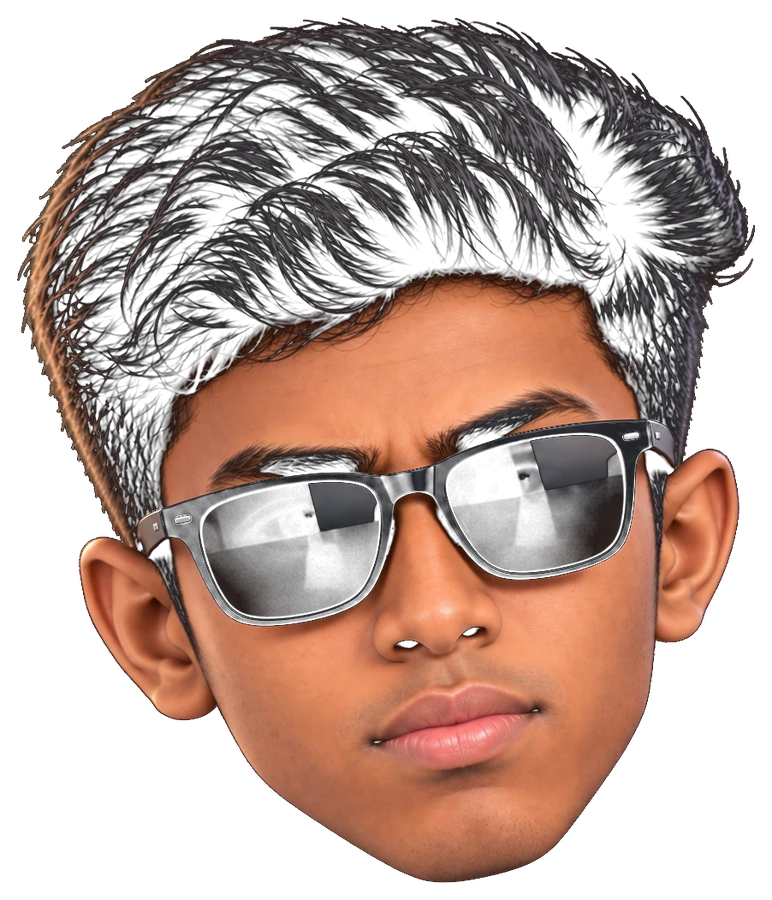
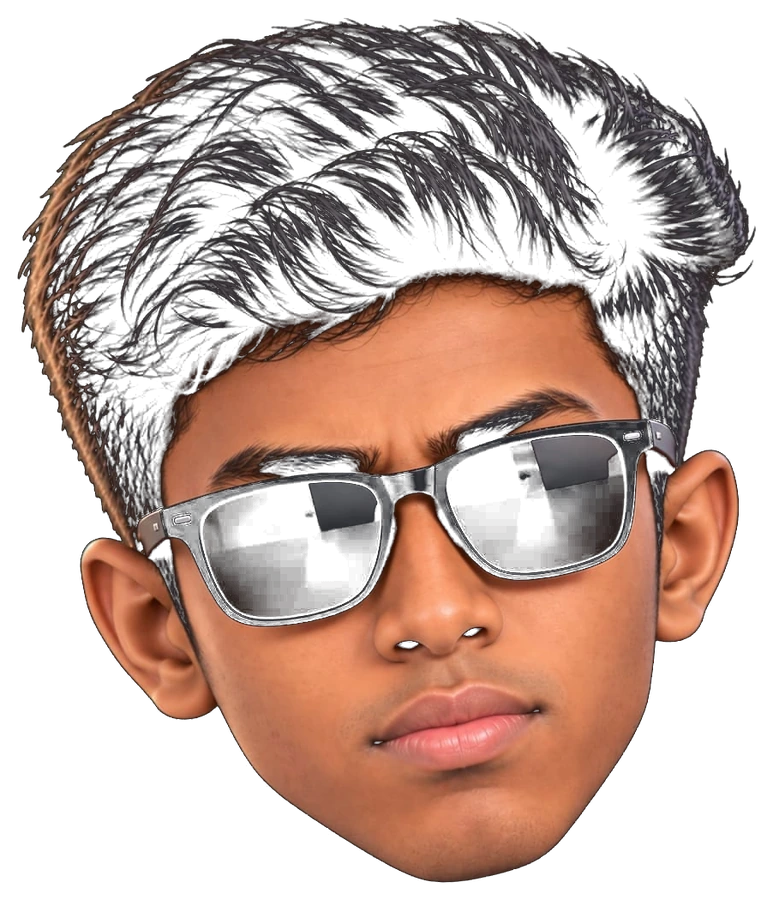
Add files via upload

diff --git a/index.html b/index.html
@@ -101,26 +101,27 @@
     <section class="min-h-svh flex flex-col items-center justify-center text-center px-4 relative pt-20">
       <div aria-hidden="true" class="absolute top-1/3 left-1/2 -translate-x-1/2 -translate-y-1/2 w-96 h-96 bg-brand-red/10 rounded-full blur-3xl pointer-events-none"></div>
 
-      <!-- Memoji Avatar: cut-out 3D portrait, floats gently and tilts toward the pointer -->
-      <div id="memoji-wrap" class="relative w-56 h-56 md:w-72 md:h-72 mx-auto z-10 mb-2" style="perspective: 900px;">
+      <!-- Layered headline + memoji: the bold "CREATIVELY" line sits behind the portrait -->
+      <h1 class="text-6xl sm:text-7xl md:text-8xl lg:text-9xl font-black uppercase tracking-tight z-0 leading-[0.82] select-none">
+        THINK <br />
+        <span class="text-brand-red">CREATIVELY</span>
+      </h1>
+
+      <!-- Memoji Avatar: cut-out 3D portrait, pulled up over the headline, floats gently and tilts toward the pointer -->
+      <div id="memoji-wrap" class="relative -mt-14 sm:-mt-20 md:-mt-28 lg:-mt-32 w-48 h-48 sm:w-60 sm:h-60 md:w-72 md:h-72 lg:w-80 lg:h-80 mx-auto z-10" style="perspective: 900px;">
         <div aria-hidden="true" class="absolute inset-0 scale-90 rounded-full bg-brand-red/25 blur-3xl"></div>
         <img
           id="memoji"
           src="memoji.webp"
           alt="3D illustrated portrait of Ketharnath wearing sunglasses"
-          width="772" height="900"
+          width="773" height="900"
           class="relative w-full h-full object-contain object-bottom select-none motion-safe:animate-float drop-shadow-[0_25px_45px_rgba(255,59,48,0.35)]"
           draggable="false"
           fetchpriority="high"
         />
       </div>
 
-      <h1 class="text-5xl md:text-7xl lg:text-8xl font-black uppercase tracking-tight z-10 leading-none mb-3">
-        THINK <br />
-        <span class="text-brand-red">CREATIVELY</span>
-      </h1>
-
-      <p class="text-neutral-400 text-sm md:text-base max-w-md mx-auto mb-6 z-10 font-normal leading-relaxed">
+      <p class="text-neutral-400 text-sm md:text-base max-w-md mx-auto mt-5 mb-6 z-10 font-normal leading-relaxed">
         Hi, I'm <span class="text-white font-semibold">Ketharnath</span>. A video editor, photo manipulation artist & web designer turning ideas into engaging digital experiences.
       </p>
 
